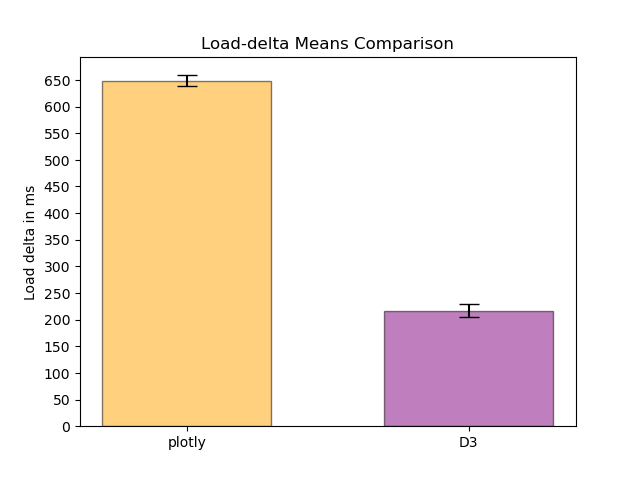
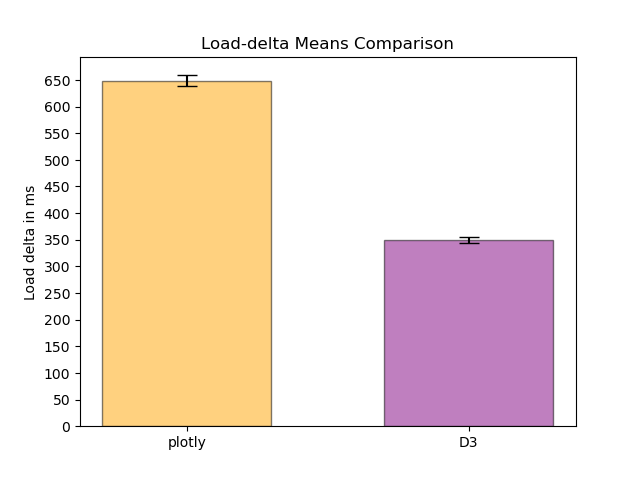
erronious use of python script corrected

Changed region(s): [[0.5947, 0.4676, 0.892, 0.6722]]

diff --git a/pilotData/diffs/CI.py b/pilotData/diffs/CI.py
@@ -16,7 +16,7 @@ def mean_confidence_interval(data, confidence=0.95):
 plotly = "plotlyLoadDelta.txt"
 plotly_df = pd.read_csv(plotly, header=None, names=['delta'])
 
-d3_data = "D3FilterDelta.txt"
+d3_data = "D3LoadDelta.txt"
 d3_df = pd.read_csv(d3_data, header=None, names=['delta'])
 
 print("CI plotly delta: ", mean_confidence_interval(plotly_df['delta']))

diff --git a/pilotData/diffs/anova.py b/pilotData/diffs/anova.py
@@ -25,7 +25,7 @@ def exampleAnova():
     plotly = "plotlyLoadDelta.txt"
     plotly_df = pd.read_csv(plotly, header=None, names=['delta'])
 
-    d3_data = "D3FilterDelta.txt"
+    d3_data = "D3LoadDelta.txt"
     d3_df = pd.read_csv(d3_data, header=None, names=['delta'])
     # Run Anova on data groups
     if (anova(plotly_df['delta'], d3_df['delta'])):
